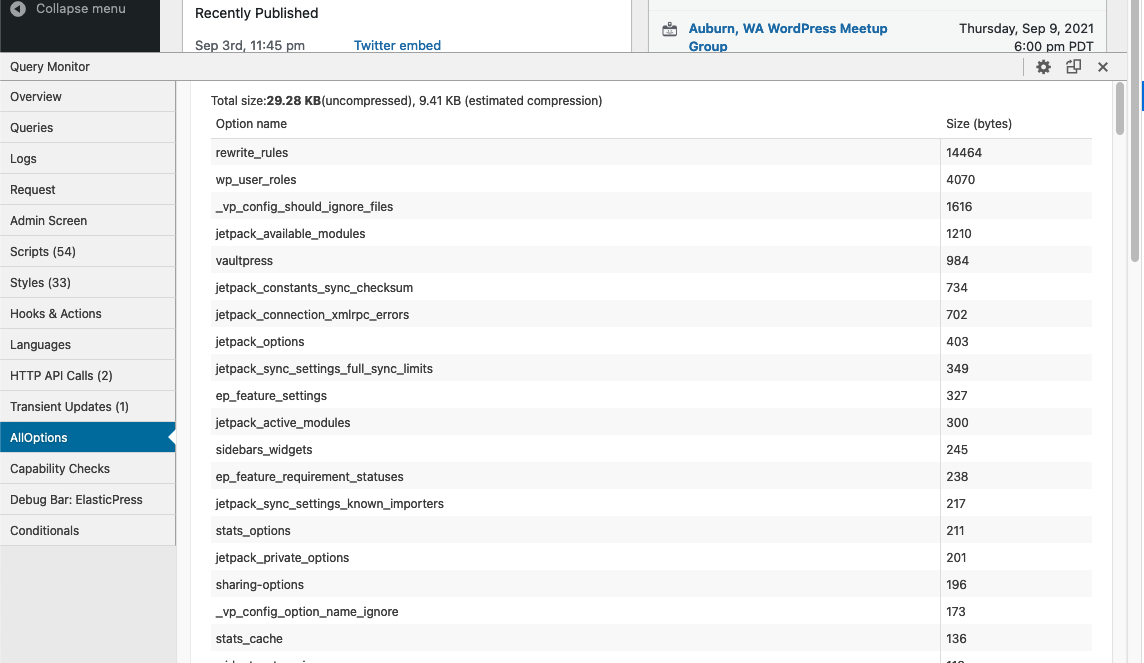
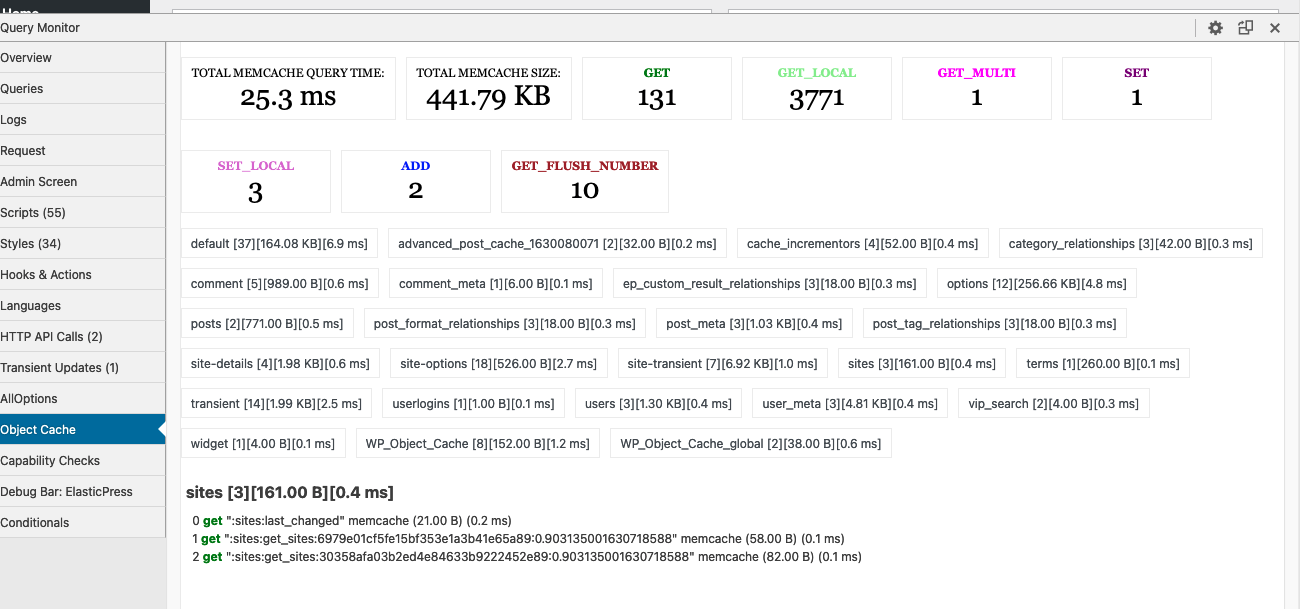
update readme

diff --git a/readme.md b/readme.md
@@ -1,5 +1,4 @@
-# Query Monitor: AllOptions
+# Query Monitor: Object Cache
 
-Shows sizes of values in alloptions (autoloaded-options)
 
 ![screenshot](screenshot-1.png)
